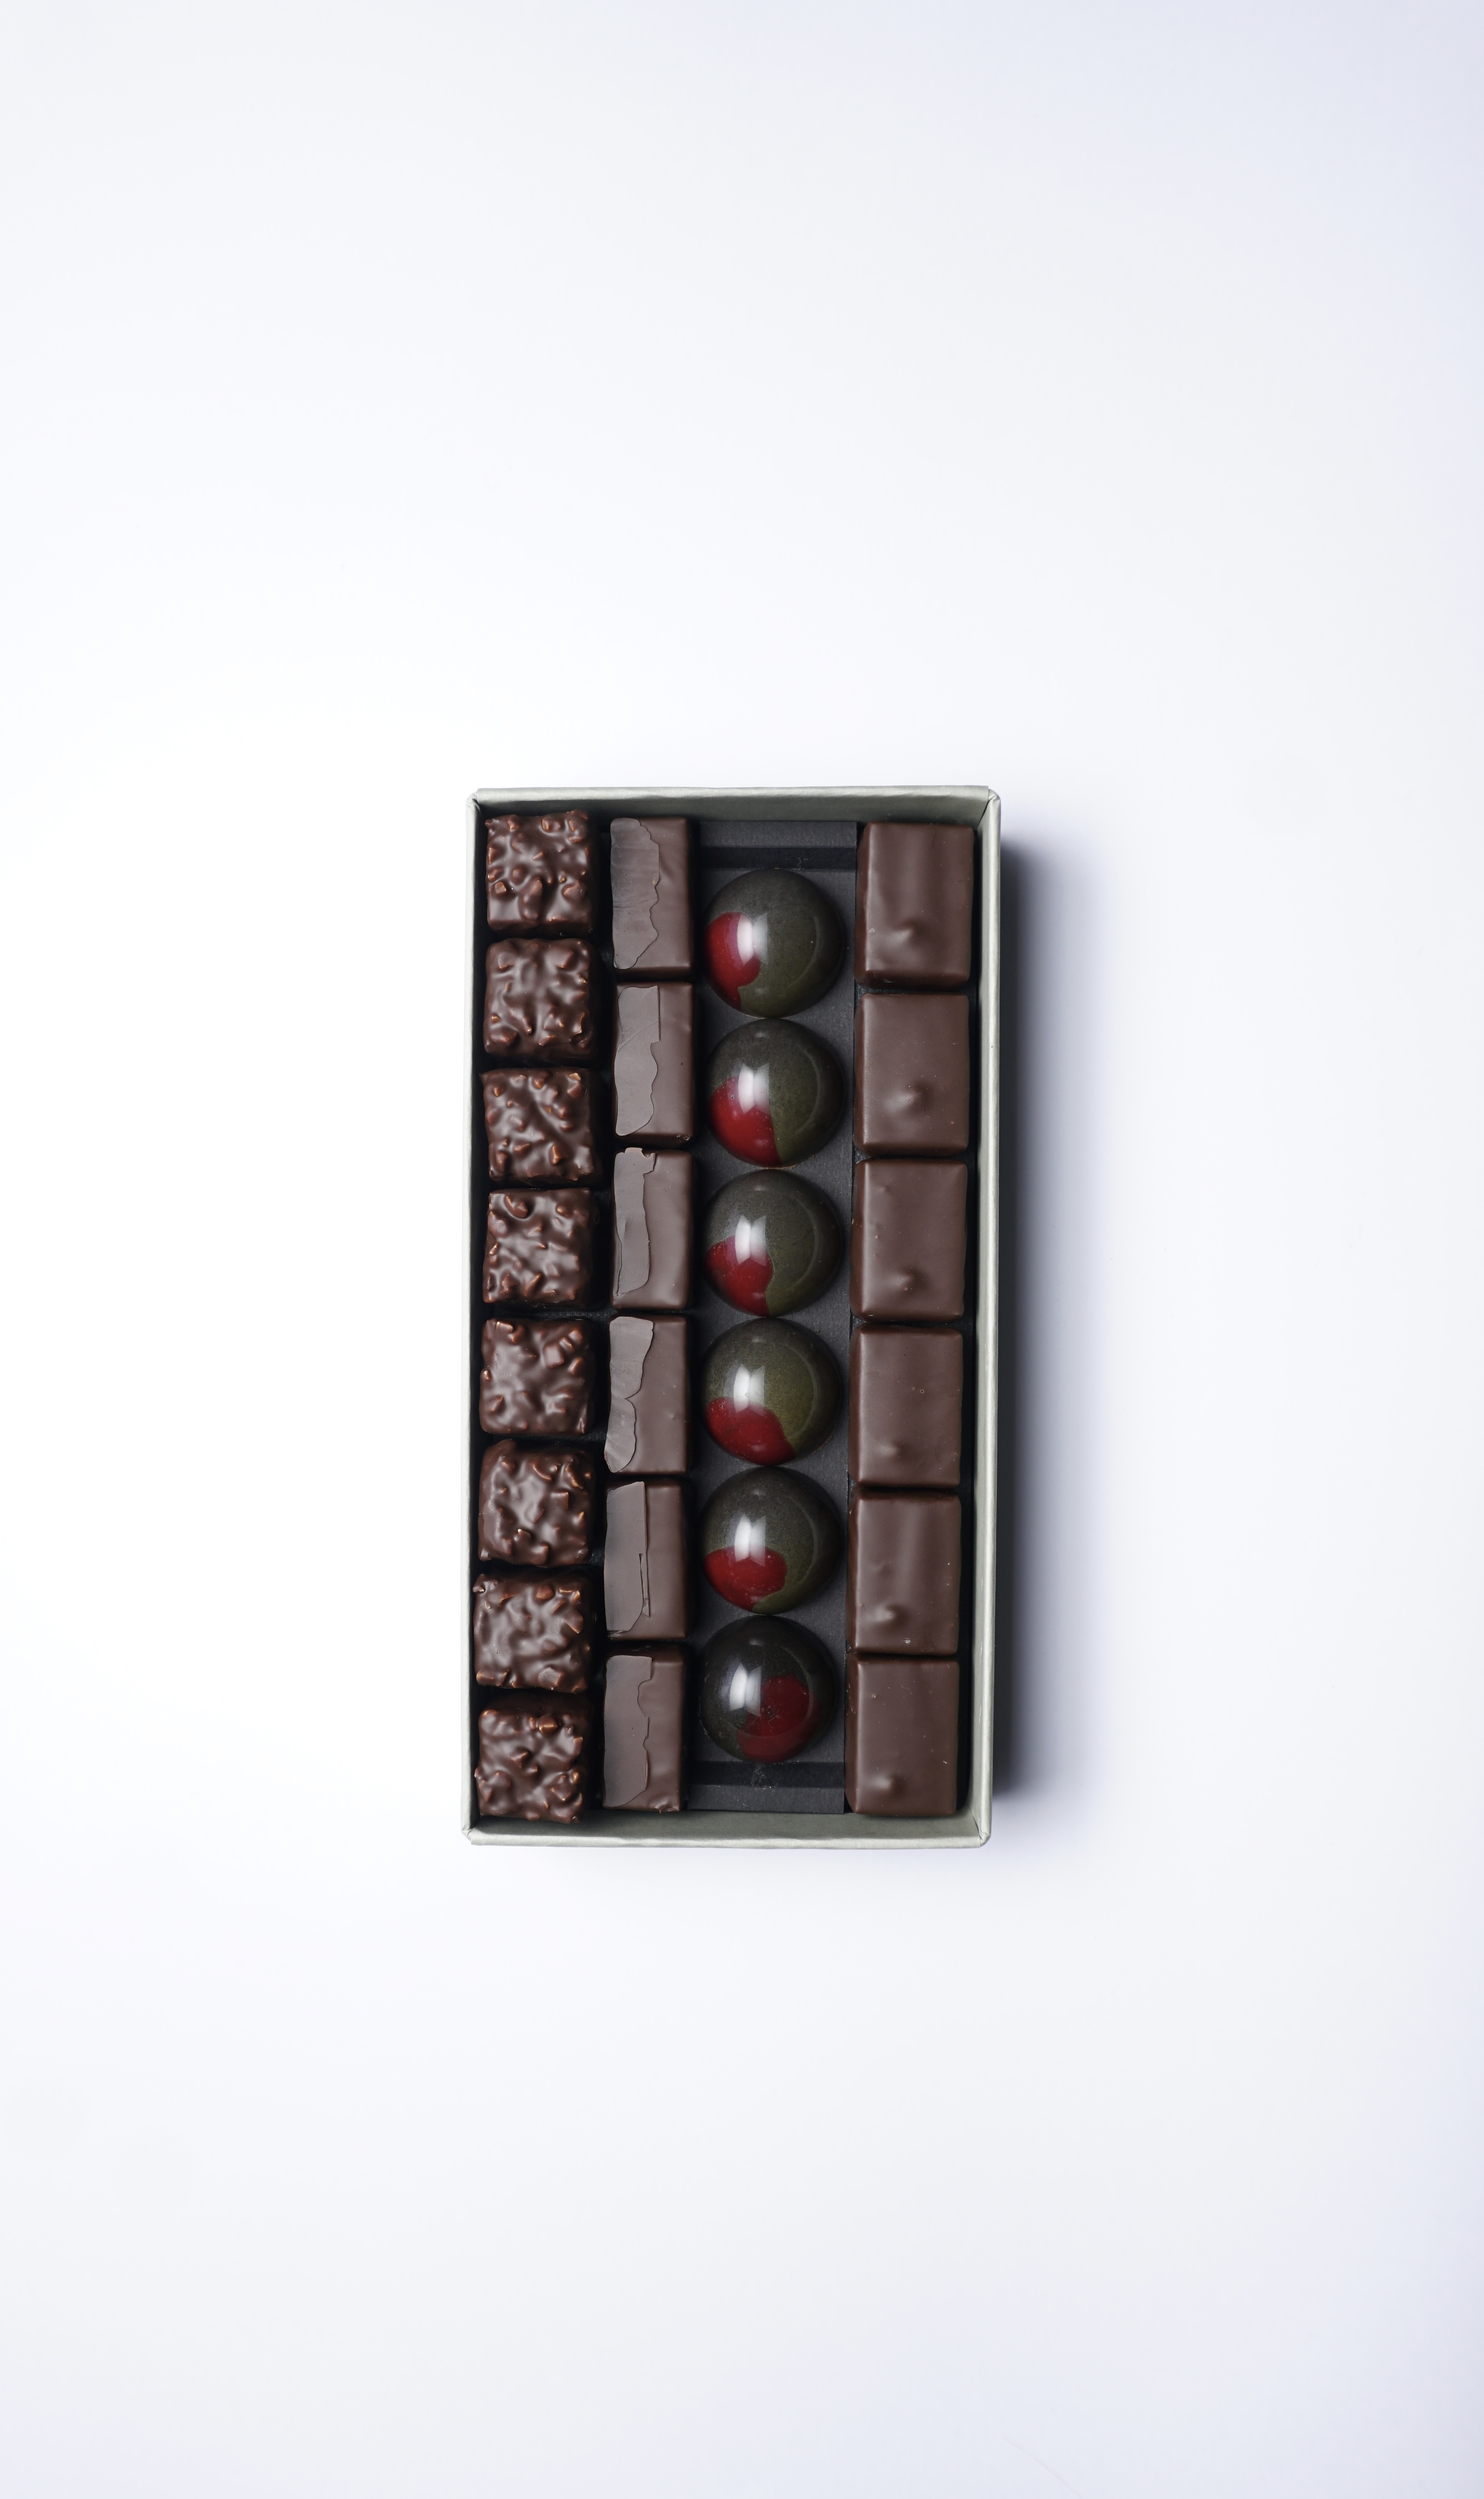
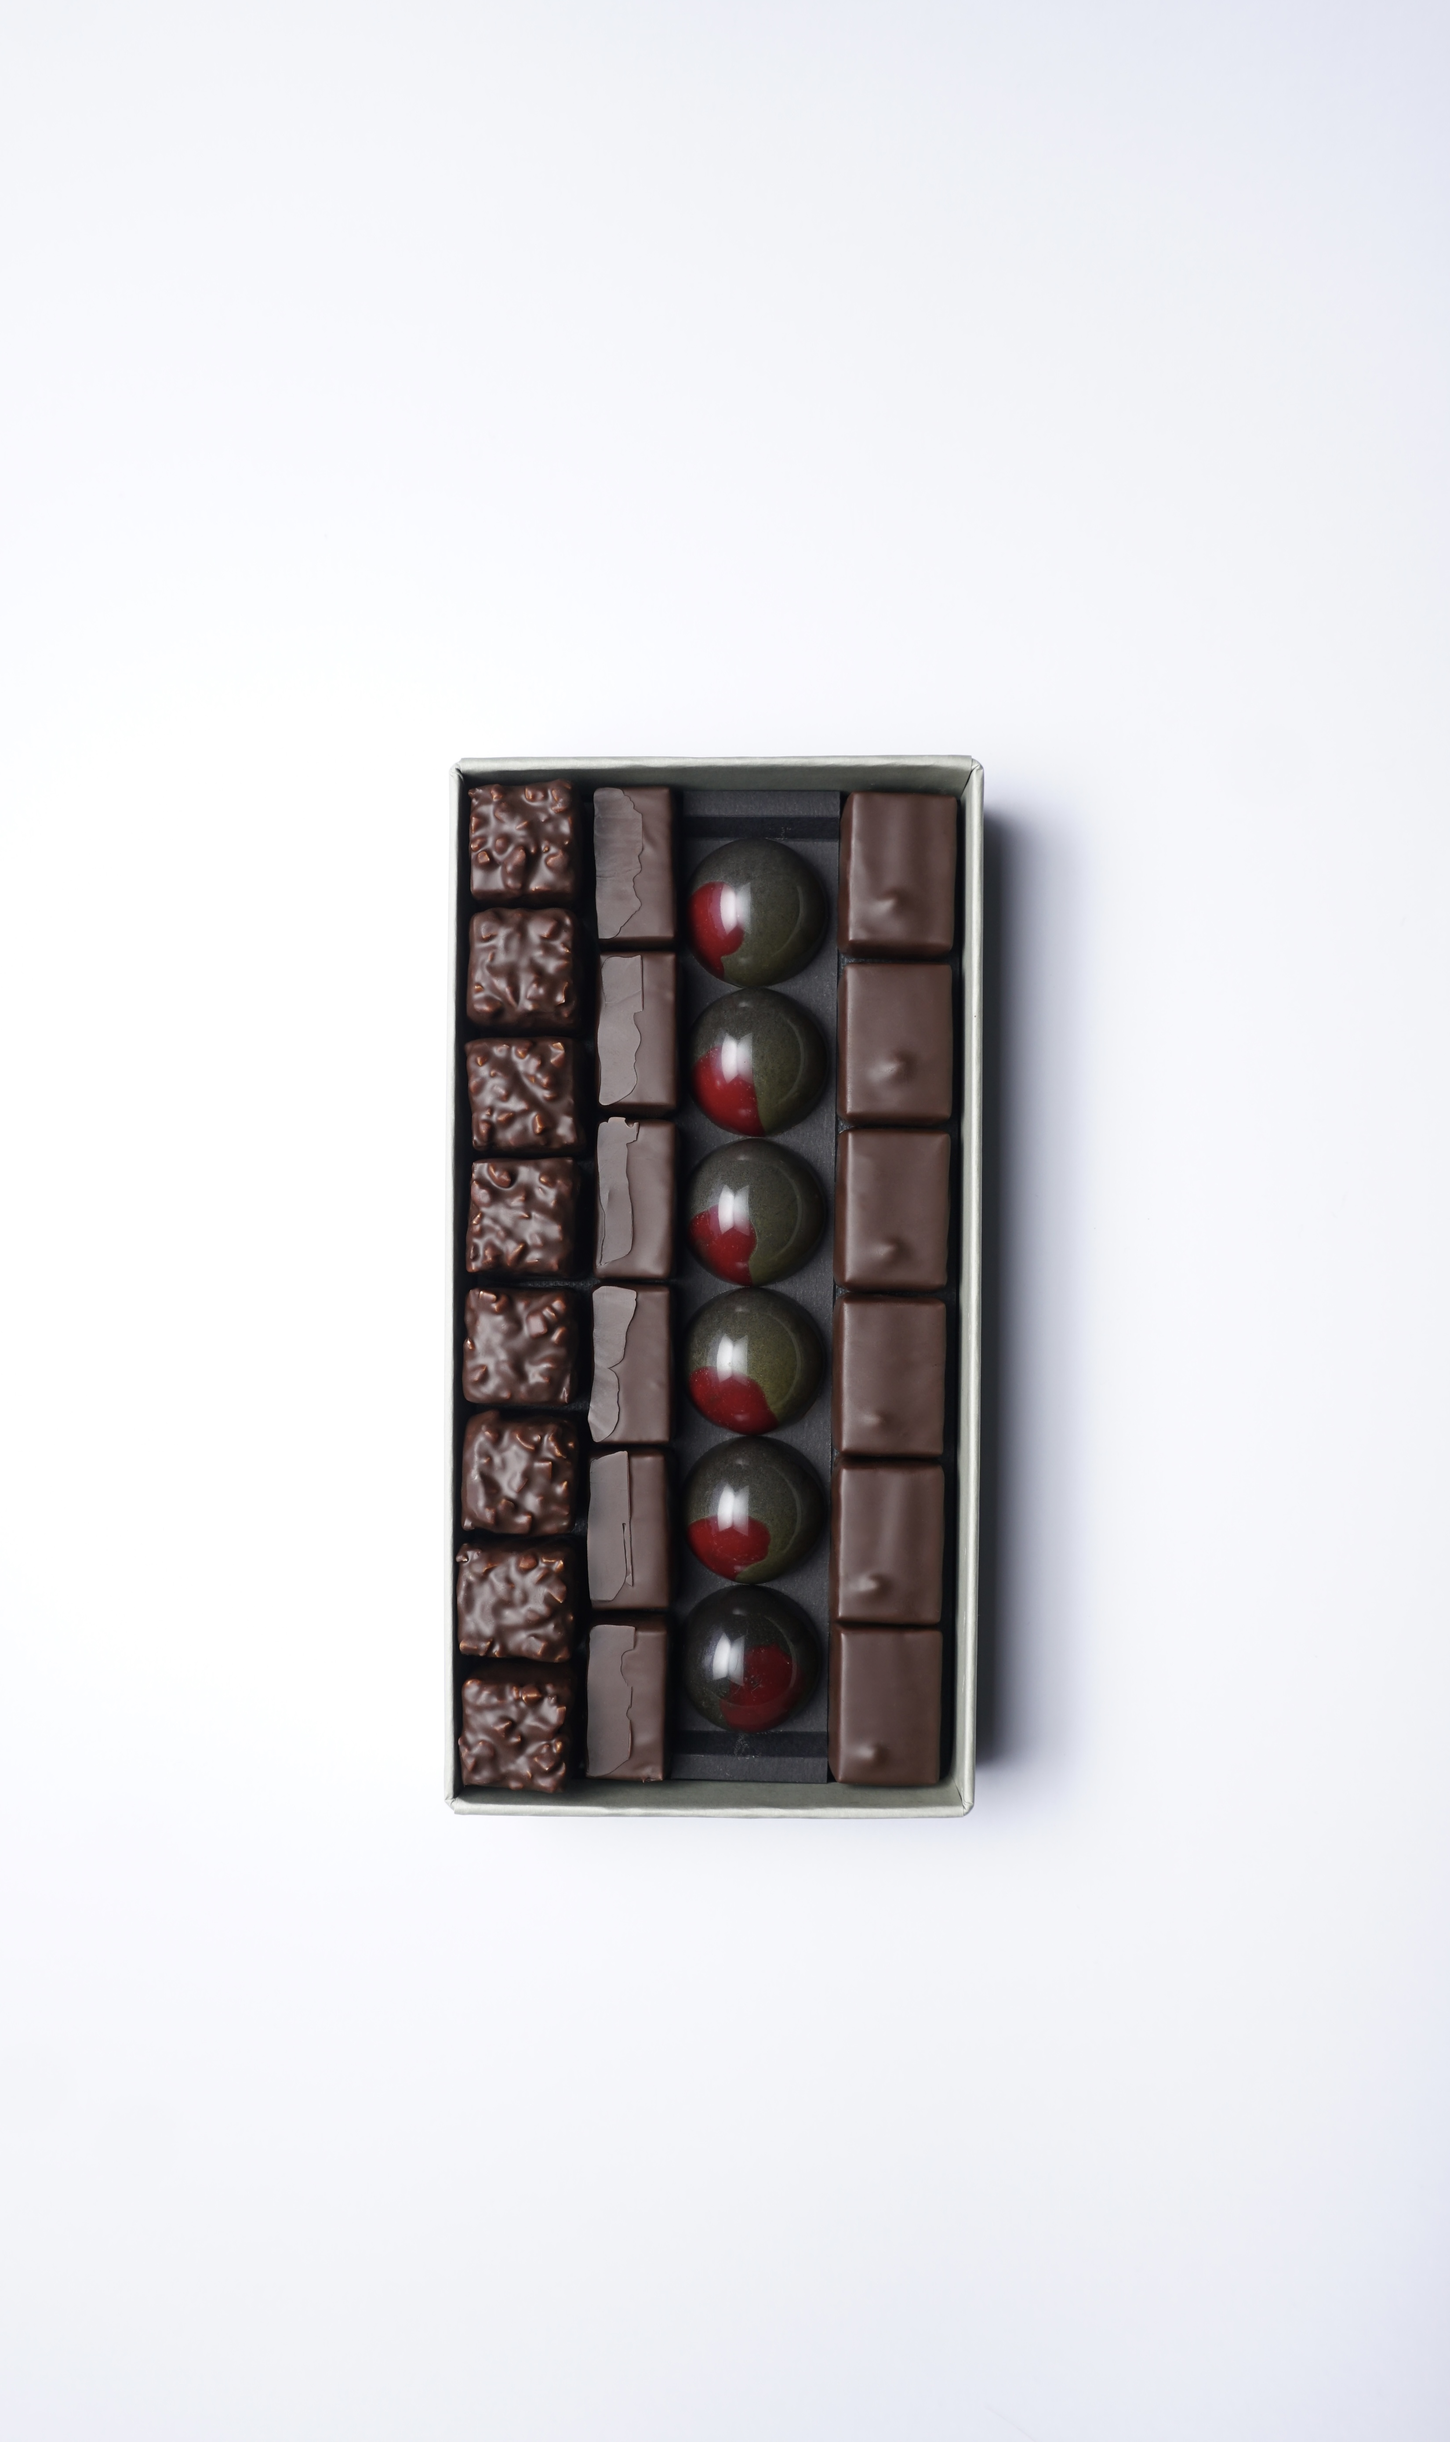
checkpoint refine creation category imagery

Changed region(s): [[0.3122, 0.3114, 0.7181, 0.7473]]

diff --git a/app/components/home/FeaturedWork.tsx b/app/components/home/FeaturedWork.tsx
@@ -48,7 +48,7 @@ const WORK_ITEMS = [
     tertiaryDescription:
       'Cassis and Poivre de Cassis half sphere, dark chocolate shell.',
     quaternaryDescription:
-      'Almond Parmesan praliné, coated in dark chocolate.',
+      'PRA(liné) Parmesan coated in dark chocolate.',
     palette: 'featured-work-card--bonbon',
   },
   {
@@ -607,10 +607,13 @@ export default function FeaturedWork({
                     'thumbnail' in item && typeof item.thumbnail === 'string'
                       ? {
                           backgroundImage: `url(${item.thumbnail})`,
-                          backgroundPosition: 'center',
+                          backgroundPosition:
+                            item.id === 'bonbon-archive'
+                              ? 'center 48%'
+                              : 'center',
                           backgroundSize:
                             item.id === 'bonbon-archive'
-                              ? '115% auto'
+                              ? '120% auto'
                               : 'cover',
                         }
                       : undefined
@@ -697,7 +700,15 @@ export default function FeaturedWork({
                 />
               )}
               <span className="featured-work-detail__description">
-                {activeWork.description}
+                {activeWork.id === 'bonbon-archive' ? (
+                  <>
+                    <strong>CU</strong>(bes) hazelnut and almond praliné, 64%
+                    Grand Cru chocolate, toasted almonds, coated in dark
+                    chocolate.
+                  </>
+                ) : (
+                  activeWork.description
+                )}
                 {'secondaryDescription' in activeWork &&
                 typeof activeWork.secondaryDescription === 'string' ? (
                   <span className="featured-work-detail__description-line">
@@ -713,7 +724,14 @@ export default function FeaturedWork({
                 {'quaternaryDescription' in activeWork &&
                 typeof activeWork.quaternaryDescription === 'string' ? (
                   <span className="featured-work-detail__description-line">
-                    {activeWork.quaternaryDescription}
+                    {activeWork.id === 'bonbon-archive' ? (
+                      <>
+                        <strong>PRA</strong>(liné) Parmesan coated in dark
+                        chocolate.
+                      </>
+                    ) : (
+                      activeWork.quaternaryDescription
+                    )}
                   </span>
                 ) : null}
               </span>

diff --git a/app/components/home/AsciiImage.tsx b/app/components/home/AsciiImage.tsx
@@ -173,6 +173,23 @@ export default function AsciiImage({
           const position = point(x, y);
           sourceContext.fillText(text, position.x, position.y);
         };
+        const compoundLabel = (
+          prefix: string,
+          suffix: string,
+          x: number,
+          y: number,
+        ) => {
+          const position = point(x, y);
+          sourceContext.font = `700 ${renderedFontSize}px ${typography.fontFamily}`;
+          sourceContext.fillText(prefix, position.x, position.y);
+          const prefixWidth = sourceContext.measureText(prefix).width;
+          sourceContext.font = `${typography.fontWeight} ${renderedFontSize}px ${typography.fontFamily}`;
+          sourceContext.fillText(
+            suffix,
+            position.x + prefixWidth,
+            position.y,
+          );
+        };
 
         sourceContext.save();
         sourceContext.fillStyle = '#ffffff';
@@ -180,10 +197,10 @@ export default function AsciiImage({
         sourceContext.globalAlpha = Number.parseFloat(typography.opacity) || 0.74;
         sourceContext.textBaseline = 'top';
         label('Guanaja 70%', 400, 195);
-        label('CU(bes)', 158, 470);
-        label('Cassis and', 905, 426);
-        label('Poivre de Cassis', 860, 458);
-        label('PRA(liné)', 875, 960);
+        compoundLabel('CU', '(bes)', 158, 470);
+        label('Cassis and', 905, 416);
+        label('Poivre de Cassis', 860, 448);
+        compoundLabel('PRA', '(liné)', 875, 960);
         label('Parmesan', 875, 993);
         sourceContext.globalAlpha = 1;
         sourceContext.lineCap = 'round';

diff --git a/app/components/home/homeExperience.css b/app/components/home/homeExperience.css
@@ -716,13 +716,13 @@ body.featured-work-detail-open .header,
 .matiere-number {
   font-family: 'Neue Haas Grotesk Display', 'ABC Diatype Thin', 'ABC Diatype',
     sans-serif;
-  font-size: clamp(3.9rem, 8.85vw, 6.7rem);
+  font-size: clamp(5.5836rem, 8.9991vw, 6.9795rem);
   font-weight: 300;
   letter-spacing: 0.16em;
   line-height: 0.82;
   margin: 0;
   opacity: calc(var(--matiere-number-opacity) * 0.82);
-  right: calc(71.95% + clamp(3rem, 5vw, 5rem));
+  right: calc(69.8% + clamp(3rem, 5vw, 5rem));
   text-align: right;
   top: 42%;
   transform: translateY(calc(-92% + var(--matiere-number-shift)));
@@ -1592,6 +1592,22 @@ body.featured-work-detail-open .header,
 
 .featured-work-card:hover .featured-work-card__image-core {
   transform: scale(1.16);
+}
+
+.featured-work-card--bonbon .featured-work-card__image-core {
+  transform: scale(1.08) rotate(-0.4deg);
+}
+
+.featured-work-card--bonbon:hover .featured-work-card__image-core {
+  transform: scale(1.16) rotate(-0.4deg);
+}
+
+.featured-work-card--atelier .featured-work-card__image-core {
+  transform: translate(-4.5%, -7.5%) scale(1.16);
+}
+
+.featured-work-card--atelier:hover .featured-work-card__image-core {
+  transform: translate(-4.5%, -7.5%) scale(1.24);
 }
 
 .featured-work-card--origin .featured-work-card__image-core,

diff --git a/app/components/home/MatiereGradientTransition.tsx b/app/components/home/MatiereGradientTransition.tsx
@@ -219,7 +219,7 @@ export default function MatiereGradientTransition({
       </div>
       <div className="text-overlay-layer">
         <div className="matiere-composition-line" aria-hidden="true" />
-        <p className="matiere-number">01</p>
+        <p className="matiere-number">001</p>
         <div className="matiere-title">
           <h1>
             MATI<span className="matiere-title__accent">È</span>RE
